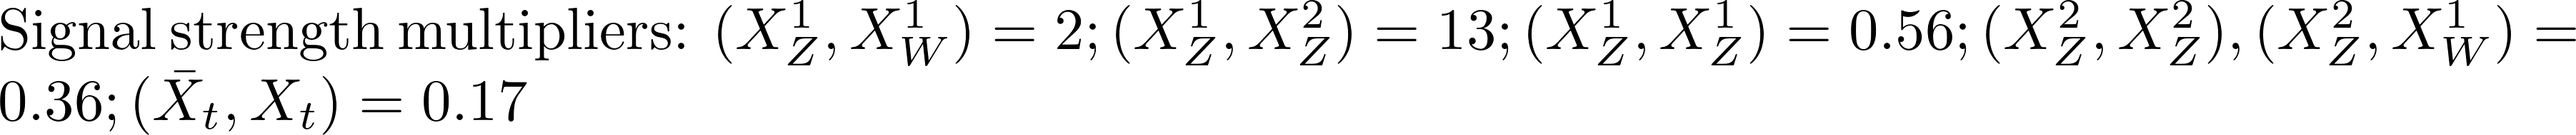
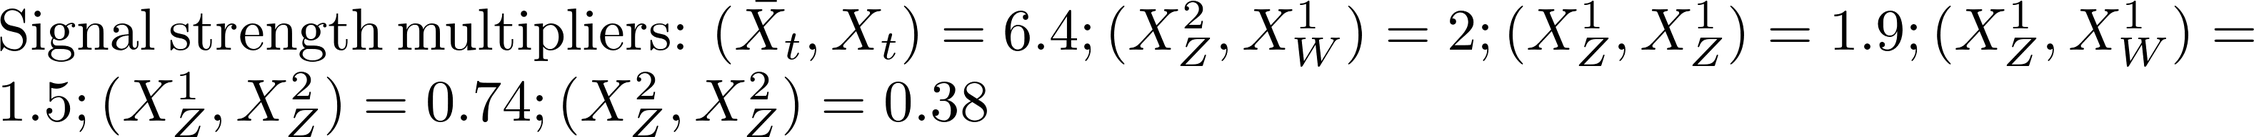
automated update by plotHiscore.py to rundir4_310:     K=13.214 TL=18.71 walkerid=uphi

diff --git a/protomodels/rundir4_310/rawnumbers.html b/protomodels/rundir4_310/rawnumbers.html
@@ -2,77 +2,8 @@
 <tr><th>Analysis Name</th><th>Type</th><th>Dataset</th><th>Topos</th><th>Observed</th><th>Expected</th><th>Approx &sigma;</th><th>Particles</th>
 </tr>
 <tr><td><a href=https://atlas.web.cern.ch/Atlas/GROUPS/PHYSICS/PAPERS/EXOT-2018-06/>ATLAS-EXOT-2018-06</a></td><td>em</td> <td>EM10</td><td>TChiISR, TChiZISRqq</td><td>413</td><td>359.00 +/- 10.00</td><td style="text-align:right">2.5 &sigma;</td><td style="text-align:right">X<sup>1</sup><sub>W</sub>, X<sup>1</sup><sub>Z</sub></td></tr>
-<tr><td><a href=http://cms-results.web.cern.ch/cms-results/public-results/publications/EXO-20-004/>CMS-EXO-20-004</a></td><td>comb</td> <td>-</td><td>TChiISR, TChiZISRqq</td><td> 1e+02 fb </td><td> 1e+02 fb</td><td style="text-align:right">2.5 &sigma;</td><td style="text-align:right">X<sup>1</sup><sub>W</sub>, X<sup>1</sup><sub>Z</sub></td></tr>
-<tr><td><a href=https://atlas.web.cern.ch/Atlas/GROUPS/PHYSICS/PAPERS/SUSY-2018-12/>ATLAS-SUSY-2018-12</a></td><td>em</td> <td>SRBTT</td><td>T2tt</td><td>67</td><td>46.00 +/- 7.00</td><td style="text-align:right">2.1 &sigma;</td><td style="text-align:right">X<sup>1</sup><sub>Z</sub>, X<sub>t</sub></td></tr>
-<tr><td><a href=http://cms-results.web.cern.ch/cms-results/public-results/publications/SUS-20-004/>CMS-SUS-20-004</a></td><td>comb</td> <td>-</td><td>TChiHH</td><td> 0.3 fb </td><td> 0.2 fb</td><td style="text-align:right">1.9 &sigma;</td><td style="text-align:right">X<sup>1</sup><sub>Z</sub>, X<sup>2</sup><sub>Z</sub></td></tr>
-<tr><td><a href=https://atlas.web.cern.ch/Atlas/GROUPS/PHYSICS/PAPERS/SUSY-2016-16/>ATLAS-SUSY-2016-16</a></td><td>em</td> <td>tN_med</td><td>T2tt</td><td>50</td><td>36.30 +/- 6.60</td><td style="text-align:right">1.5 &sigma;</td><td style="text-align:right">X<sup>1</sup><sub>Z</sub>, X<sub>t</sub></td></tr>
-<tr><td><a href=https://atlas.web.cern.ch/Atlas/GROUPS/PHYSICS/PAPERS/SUSY-2018-08/>ATLAS-SUSY-2018-08</a></td><td>em</td> <td>SRSF140</td><td>T2tt</td><td>9</td><td>5.10 +/- 0.90</td><td style="text-align:right">1.5 &sigma;</td><td style="text-align:right">X<sup>1</sup><sub>Z</sub>, X<sub>t</sub></td></tr>
-<tr><td><a href=https://atlas.web.cern.ch/Atlas/GROUPS/PHYSICS/PAPERS/SUSY-2013-16/>ATLAS-SUSY-2013-16</a></td><td>em</td> <td>SRA4</td><td>T2tt</td><td>4</td><td>2.40 +/- 0.70</td><td style="text-align:right">0.9 &sigma;</td><td style="text-align:right">X<sup>1</sup><sub>Z</sub>, X<sub>t</sub></td></tr>
-<tr><td><a href=https://atlas.web.cern.ch/Atlas/GROUPS/PHYSICS/PAPERS/SUSY-2013-15/>ATLAS-SUSY-2013-15</a></td><td>em</td> <td>tNboost</td><td>T2tt</td><td>5</td><td>3.30 +/- 0.70</td><td style="text-align:right">0.9 &sigma;</td><td style="text-align:right">X<sup>1</sup><sub>Z</sub>, X<sub>t</sub></td></tr>
-<tr><td><a href=https://twiki.cern.ch/twiki/bin/view/CMSPublic/PhysicsResultsSUS13015>CMS-PAS-SUS-13-015</a></td><td>em</td> <td>pTmiss350_Nb2</td><td>T2tt</td><td>15</td><td>8.60 +/- 7.10</td><td style="text-align:right">0.8 &sigma;</td><td style="text-align:right">X<sup>1</sup><sub>Z</sub>, X<sub>t</sub></td></tr>
-<tr><td><a href=http://cms-results.web.cern.ch/cms-results/public-results/publications/SUS-16-050/index.html>CMS-SUS-16-050-agg</a></td><td>comb</td> <td>-</td><td>T2tt</td><td> 1 fb </td><td> 2 fb</td><td style="text-align:right">-0.3 &sigma;</td><td style="text-align:right">X<sup>1</sup><sub>Z</sub>, X<sub>t</sub></td></tr>
-<tr><td><a href=https://twiki.cern.ch/twiki/bin/view/CMSPublic/PhysicsResultsSUS13011>CMS-SUS-13-011</a></td><td>em</td> <td>LM150</td><td>T2tt</td><td>227</td><td>251.00 +/- 50.00</td><td style="text-align:right">-0.4 &sigma;</td><td style="text-align:right">X<sup>1</sup><sub>Z</sub>, X<sub>t</sub></td></tr>
+<tr><td><a href=http://cms-results.web.cern.ch/cms-results/public-results/publications/EXO-20-004/>CMS-EXO-20-004</a></td><td>comb</td> <td>-</td><td>TChiISR, TChiZISRqq</td><td> 9e+01 fb </td><td> 7e+01 fb</td><td style="text-align:right">2.5 &sigma;</td><td style="text-align:right">X<sup>1</sup><sub>W</sub>, X<sup>1</sup><sub>Z</sub></td></tr>
+<tr><td><a href=http://cms-results.web.cern.ch/cms-results/public-results/publications/SUS-20-004/>CMS-SUS-20-004</a></td><td>comb</td> <td>-</td><td>TChiHH</td><td> 0.3 fb </td><td> 0.2 fb</td><td style="text-align:right">2.1 &sigma;</td><td style="text-align:right">X<sup>1</sup><sub>Z</sub>, X<sup>2</sup><sub>Z</sub></td></tr>
 </table>
 <table style='color:grey'>
-<tr><th>Not in Best Combo</th><th>Type</th><th>Dataset</th><th>Topos</th><th>Observed</th><th>Expected</th><th>Approx &sigma;</th><th>Particles</th><tr><td><a href=https://atlas.web.cern.ch/Atlas/GROUPS/PHYSICS/PAPERS/SUSY-2015-02/>ATLAS-SUSY-2015-02</a></td><td>em</td> <td>SR1</td><td>T2tt</td><td>12</td><td>5.50 +/- 0.72</td><td style="text-align:right">2.3 &sigma;</td><td style="text-align:right">X<sup>1</sup><sub>Z</sub>, X<sub>t</sub></td></tr>
-<tr><td><a href=https://twiki.cern.ch/twiki/bin/view/CMSPublic/PhysicsResultsSUS13012>CMS-SUS-13-012</a></td><td>em</td> <td>6NJet8_500HT800 ...</td><td>T2tt, T6bbWWoff</td><td>9</td><td>0.80 +/- 3.30</td><td style="text-align:right">1.8 &sigma;</td><td style="text-align:right">X<sup>1</sup><sub>W</sub>, X<sup>1</sup><sub>Z</sub>, X<sub>t</sub></td></tr>
-<tr><td><a href=https://twiki.cern.ch/twiki/bin/view/CMSPublic/PhysicsResultsSUS13012>CMS-SUS-13-012</a></td><td>em</td> <td>3NJet6_1000HT12 ...</td><td>T2tt, T6bbWWoff</td><td>32</td><td>22.80 +/- 5.20</td><td style="text-align:right">1.3 &sigma;</td><td style="text-align:right">X<sup>1</sup><sub>W</sub>, X<sup>1</sup><sub>Z</sub>, X<sub>t</sub></td></tr>
-<tr><td><a href=https://atlas.web.cern.ch/Atlas/GROUPS/PHYSICS/PAPERS/SUSY-2013-04/>ATLAS-SUSY-2013-04</a></td><td>em</td> <td>GtGrid_SR_10ij5 ...</td><td>T2tt</td><td>3</td><td>1.37 +/- 0.35</td><td style="text-align:right">1.2 &sigma;</td><td style="text-align:right">X<sup>1</sup><sub>Z</sub>, X<sub>t</sub></td></tr>
-<tr><td><a href=https://twiki.cern.ch/twiki/bin/view/CMSPublic/PhysicsResultsSUS13012>CMS-SUS-13-012</a></td><td>em</td> <td>3NJet6_1500HTin ...</td><td>T2tt, T6bbWWoff</td><td>39</td><td>29.70 +/- 5.80</td><td style="text-align:right">1.1 &sigma;</td><td style="text-align:right">X<sup>1</sup><sub>W</sub>, X<sup>1</sup><sub>Z</sub>, X<sub>t</sub></td></tr>
-<tr><td><a href=https://twiki.cern.ch/twiki/bin/view/CMSPublic/PhysicsResultsSUS13012>CMS-SUS-13-012</a></td><td>em</td> <td>8NJetinf_500HT8 ...</td><td>T2tt, T6bbWWoff</td><td>8</td><td>4.80 +/- 2.30</td><td style="text-align:right">1.0 &sigma;</td><td style="text-align:right">X<sup>1</sup><sub>W</sub>, X<sup>1</sup><sub>Z</sub>, X<sub>t</sub></td></tr>
-<tr><td><a href=https://twiki.cern.ch/twiki/bin/view/CMSPublic/PhysicsResultsSUS13012>CMS-SUS-13-012</a></td><td>em</td> <td>3NJet6_1250HT15 ...</td><td>T2tt, T6bbWWoff</td><td>23</td><td>17.60 +/- 4.10</td><td style="text-align:right">0.9 &sigma;</td><td style="text-align:right">X<sup>1</sup><sub>W</sub>, X<sup>1</sup><sub>Z</sub>, X<sub>t</sub></td></tr>
-<tr><td><a href=https://atlas.web.cern.ch/Atlas/GROUPS/PHYSICS/PAPERS/SUSY-2013-04/>ATLAS-SUSY-2013-04</a></td><td>em</td> <td>GtGrid_SR_8ij80 ...</td><td>T2tt</td><td>2</td><td>0.90 +/- 0.60</td><td style="text-align:right">0.9 &sigma;</td><td style="text-align:right">X<sup>1</sup><sub>Z</sub>, X<sub>t</sub></td></tr>
-<tr><td><a href=https://atlas.web.cern.ch/Atlas/GROUPS/PHYSICS/PAPERS/SUSY-2013-04/>ATLAS-SUSY-2013-04</a></td><td>em</td> <td>GtGrid_SR_9ej50 ...</td><td>T2tt</td><td>5</td><td>3.30 +/- 0.70</td><td style="text-align:right">0.9 &sigma;</td><td style="text-align:right">X<sup>1</sup><sub>Z</sub>, X<sub>t</sub></td></tr>
-<tr><td><a href=https://twiki.cern.ch/twiki/bin/view/CMSPublic/PhysicsResultsSUS13012>CMS-SUS-13-012</a></td><td>em</td> <td>3NJet6_800HT100 ...</td><td>T2tt, T6bbWWoff</td><td>124</td><td>108.00 +/- 15.00</td><td style="text-align:right">0.9 &sigma;</td><td style="text-align:right">X<sup>1</sup><sub>W</sub>, X<sup>1</sup><sub>Z</sub>, X<sub>t</sub></td></tr>
-<tr><td><a href=https://twiki.cern.ch/twiki/bin/view/CMSPublic/PhysicsResultsSUS13012>CMS-SUS-13-012</a></td><td>em</td> <td>8NJetinf_1000HT ...</td><td>T2tt, T6bbWWoff</td><td>8</td><td>5.60 +/- 2.30</td><td style="text-align:right">0.8 &sigma;</td><td style="text-align:right">X<sup>1</sup><sub>W</sub>, X<sup>1</sup><sub>Z</sub>, X<sub>t</sub></td></tr>
-<tr><td><a href=https://twiki.cern.ch/twiki/bin/view/CMSPublic/PhysicsResultsSUS13012>CMS-SUS-13-012</a></td><td>em</td> <td>6NJet8_800HT100 ...</td><td>T2tt, T6bbWWoff</td><td>35</td><td>28.60 +/- 6.90</td><td style="text-align:right">0.8 &sigma;</td><td style="text-align:right">X<sup>1</sup><sub>W</sub>, X<sup>1</sup><sub>Z</sub>, X<sub>t</sub></td></tr>
-<tr><td><a href=https://atlas.web.cern.ch/Atlas/GROUPS/PHYSICS/PAPERS/SUSY-2013-04/>ATLAS-SUSY-2013-04</a></td><td>em</td> <td>GtGrid_SR_8ej50 ...</td><td>T2tt</td><td>40</td><td>35.00 +/- 4.00</td><td style="text-align:right">0.7 &sigma;</td><td style="text-align:right">X<sup>1</sup><sub>Z</sub>, X<sub>t</sub></td></tr>
-<tr><td><a href=https://twiki.cern.ch/twiki/bin/view/CMSPublic/PhysicsResultsSUS13012>CMS-SUS-13-012</a></td><td>em</td> <td>6NJet8_500HT800 ...</td><td>T2tt, T6bbWWoff</td><td>62</td><td>52.00 +/- 12.00</td><td style="text-align:right">0.7 &sigma;</td><td style="text-align:right">X<sup>1</sup><sub>W</sub>, X<sup>1</sup><sub>Z</sub>, X<sub>t</sub></td></tr>
-<tr><td><a href=https://atlas.web.cern.ch/Atlas/GROUPS/PHYSICS/PAPERS/SUSY-2013-04/>ATLAS-SUSY-2013-04</a></td><td>em</td> <td>GtGrid_SR_9ej50 ...</td><td>T2tt</td><td>8</td><td>6.10 +/- 1.70</td><td style="text-align:right">0.7 &sigma;</td><td style="text-align:right">X<sup>1</sup><sub>Z</sub>, X<sub>t</sub></td></tr>
-<tr><td><a href=https://twiki.cern.ch/twiki/bin/view/CMSPublic/PhysicsResultsSUS13012>CMS-SUS-13-012</a></td><td>em</td> <td>3NJet6_1000HT12 ...</td><td>T2tt, T6bbWWoff</td><td>335</td><td>305.00 +/- 41.00</td><td style="text-align:right">0.7 &sigma;</td><td style="text-align:right">X<sup>1</sup><sub>W</sub>, X<sup>1</sup><sub>Z</sub>, X<sub>t</sub></td></tr>
-<tr><td><a href=http://cms-results.web.cern.ch/cms-results/public-results/publications/SUS-16-033/index.html>CMS-SUS-16-033</a></td><td>em</td> <td>SR6_Njet2_Nb2_H ...</td><td>T2tt</td><td>216</td><td>196.00 +/- 28.00</td><td style="text-align:right">0.6 &sigma;</td><td style="text-align:right">X<sup>1</sup><sub>Z</sub>, X<sub>t</sub></td></tr>
-<tr><td><a href=http://cms-results.web.cern.ch/cms-results/public-results/publications/SUS-16-033/index.html>CMS-SUS-16-033</a></td><td>em</td> <td>SR1_Njet2_Nb0_H ...</td><td>T2tt</td><td>7838</td><td>7584.00 +/- 433.00</td><td style="text-align:right">0.6 &sigma;</td><td style="text-align:right">X<sup>1</sup><sub>Z</sub>, X<sub>t</sub></td></tr>
-<tr><td><a href=http://cms-results.web.cern.ch/cms-results/public-results/publications/SUS-16-033/index.html>CMS-SUS-16-033</a></td><td>em</td> <td>SR12_Njet5_Nb1_ ...</td><td>T2tt</td><td>48</td><td>42.20 +/- 9.70</td><td style="text-align:right">0.5 &sigma;</td><td style="text-align:right">X<sup>1</sup><sub>Z</sub>, X<sub>t</sub></td></tr>
-<tr><td><a href=https://twiki.cern.ch/twiki/bin/view/CMSPublic/PhysicsResultsSUS13012>CMS-SUS-13-012</a></td><td>em</td> <td>3NJet6_500HT800 ...</td><td>T2tt, T6bbWWoff</td><td>454</td><td>418.00 +/- 66.00</td><td style="text-align:right">0.5 &sigma;</td><td style="text-align:right">X<sup>1</sup><sub>W</sub>, X<sup>1</sup><sub>Z</sub>, X<sub>t</sub></td></tr>
-<tr><td><a href=http://cms-results.web.cern.ch/cms-results/public-results/publications/SUS-16-033/index.html>CMS-SUS-16-033</a></td><td>em</td> <td>SR7_Njet3_Nb1_H ...</td><td>T2tt</td><td>123</td><td>113.00 +/- 18.00</td><td style="text-align:right">0.5 &sigma;</td><td style="text-align:right">X<sup>1</sup><sub>Z</sub>, X<sub>t</sub></td></tr>
-<tr><td><a href=https://twiki.cern.ch/twiki/bin/view/CMSPublic/PhysicsResultsSUS13012>CMS-SUS-13-012</a></td><td>em</td> <td>3NJet6_1500HTin ...</td><td>T2tt, T6bbWWoff</td><td>94</td><td>86.00 +/- 17.00</td><td style="text-align:right">0.4 &sigma;</td><td style="text-align:right">X<sup>1</sup><sub>W</sub>, X<sup>1</sup><sub>Z</sub>, X<sub>t</sub></td></tr>
-<tr><td><a href=http://cms-results.web.cern.ch/cms-results/public-results/publications/SUS-16-033/index.html>CMS-SUS-16-033</a></td><td>em</td> <td>SR9_NJet5_Nb2_H ...</td><td>T2tt</td><td>6</td><td>4.40 +/- 3.40</td><td style="text-align:right">0.4 &sigma;</td><td style="text-align:right">X<sup>1</sup><sub>Z</sub>, X<sub>t</sub></td></tr>
-<tr><td><a href=https://atlas.web.cern.ch/Atlas/GROUPS/PHYSICS/PAPERS/SUSY-2013-04/>ATLAS-SUSY-2013-04</a></td><td>em</td> <td>GtGrid_SR_8ej50 ...</td><td>T2tt</td><td>44</td><td>40.00 +/- 10.00</td><td style="text-align:right">0.4 &sigma;</td><td style="text-align:right">X<sup>1</sup><sub>Z</sub>, X<sub>t</sub></td></tr>
-<tr><td><a href=https://twiki.cern.ch/twiki/bin/view/CMSPublic/PhysicsResultsSUS13012>CMS-SUS-13-012</a></td><td>em</td> <td>3NJet6_500HT800 ...</td><td>T2tt, T6bbWWoff</td><td>62</td><td>57.40 +/- 11.20</td><td style="text-align:right">0.4 &sigma;</td><td style="text-align:right">X<sup>1</sup><sub>W</sub>, X<sup>1</sup><sub>Z</sub>, X<sub>t</sub></td></tr>
-<tr><td><a href=https://atlas.web.cern.ch/Atlas/GROUPS/PHYSICS/PAPERS/SUSY-2013-04/>ATLAS-SUSY-2013-04</a></td><td>em</td> <td>GtGrid_SR_7ej80 ...</td><td>T2tt</td><td>12</td><td>11.00 +/- 2.20</td><td style="text-align:right">0.3 &sigma;</td><td style="text-align:right">X<sup>1</sup><sub>Z</sub>, X<sub>t</sub></td></tr>
-<tr><td><a href=https://twiki.cern.ch/twiki/bin/view/CMSPublic/PhysicsResultsSUS13012>CMS-SUS-13-012</a></td><td>em</td> <td>3NJet6_800HT100 ...</td><td>T2tt, T6bbWWoff</td><td>808</td><td>777.00 +/- 107.00</td><td style="text-align:right">0.3 &sigma;</td><td style="text-align:right">X<sup>1</sup><sub>W</sub>, X<sup>1</sup><sub>Z</sub>, X<sub>t</sub></td></tr>
-<tr><td><a href=https://twiki.cern.ch/twiki/bin/view/CMSPublic/PhysicsResultsSUS13012>CMS-SUS-13-012</a></td><td>em</td> <td>3NJet6_1000HT12 ...</td><td>T2tt, T6bbWWoff</td><td>34</td><td>32.30 +/- 6.10</td><td style="text-align:right">0.2 &sigma;</td><td style="text-align:right">X<sup>1</sup><sub>W</sub>, X<sup>1</sup><sub>Z</sub>, X<sub>t</sub></td></tr>
-<tr><td><a href=https://twiki.cern.ch/twiki/bin/view/CMSPublic/PhysicsResultsSUS13012>CMS-SUS-13-012</a></td><td>em</td> <td>8NJetinf_800HT1 ...</td><td>T2tt, T6bbWWoff</td><td>9</td><td>8.30 +/- 3.40</td><td style="text-align:right">0.2 &sigma;</td><td style="text-align:right">X<sup>1</sup><sub>W</sub>, X<sup>1</sup><sub>Z</sub>, X<sub>t</sub></td></tr>
-<tr><td><a href=http://cms-results.web.cern.ch/cms-results/public-results/publications/SUS-16-033/index.html>CMS-SUS-16-033</a></td><td>em</td> <td>SR3_Njet5_Nb0_H ...</td><td>T2tt</td><td>819</td><td>806.00 +/- 57.00</td><td style="text-align:right">0.2 &sigma;</td><td style="text-align:right">X<sup>1</sup><sub>Z</sub>, X<sub>t</sub></td></tr>
-<tr><td><a href=https://twiki.cern.ch/twiki/bin/view/CMSPublic/PhysicsResultsSUS13012>CMS-SUS-13-012</a></td><td>em</td> <td>6NJet8_1000HT12 ...</td><td>T2tt, T6bbWWoff</td><td>4</td><td>2.20 +/- 3.80</td><td style="text-align:right">0.2 &sigma;</td><td style="text-align:right">X<sup>1</sup><sub>W</sub>, X<sup>1</sup><sub>Z</sub>, X<sub>t</sub></td></tr>
-<tr><td><a href=https://twiki.cern.ch/twiki/bin/view/CMSPublic/PhysicsResultsSUS13012>CMS-SUS-13-012</a></td><td>em</td> <td>6NJet8_1250HT15 ...</td><td>T2tt, T6bbWWoff</td><td>2</td><td>0.50 +/- 2.60</td><td style="text-align:right">0.1 &sigma;</td><td style="text-align:right">X<sup>1</sup><sub>W</sub>, X<sup>1</sup><sub>Z</sub>, X<sub>t</sub></td></tr>
-<tr><td><a href=https://twiki.cern.ch/twiki/bin/view/CMSPublic/PhysicsResultsSUS13012>CMS-SUS-13-012</a></td><td>em</td> <td>3NJet6_500HT800 ...</td><td>T2tt, T6bbWWoff</td><td>6159</td><td>6088.00 +/- 665.00</td><td style="text-align:right">0.1 &sigma;</td><td style="text-align:right">X<sup>1</sup><sub>W</sub>, X<sup>1</sup><sub>Z</sub>, X<sub>t</sub></td></tr>
-<tr><td><a href=https://atlas.web.cern.ch/Atlas/GROUPS/PHYSICS/PAPERS/SUSY-2015-02/>ATLAS-SUSY-2015-02</a></td><td>em</td> <td>SR3</td><td>T2tt</td><td>1</td><td>1.03 +/- 0.18</td><td style="text-align:right">0.1 &sigma;</td><td style="text-align:right">X<sup>1</sup><sub>Z</sub>, X<sub>t</sub></td></tr>
-<tr><td><a href=https://twiki.cern.ch/twiki/bin/view/CMSPublic/PhysicsResultsSUS13012>CMS-SUS-13-012</a></td><td>em</td> <td>3NJet6_500HT800 ...</td><td>T2tt, T6bbWWoff</td><td>2305</td><td>2278.00 +/- 266.00</td><td style="text-align:right">0.1 &sigma;</td><td style="text-align:right">X<sup>1</sup><sub>W</sub>, X<sup>1</sup><sub>Z</sub>, X<sub>t</sub></td></tr>
-<tr><td><a href=https://atlas.web.cern.ch/Atlas/GROUPS/PHYSICS/PAPERS/SUSY-2013-04/>ATLAS-SUSY-2013-04</a></td><td>em</td> <td>GtGrid_SR_7ej80 ...</td><td>T2tt</td><td>17</td><td>17.00 +/- 6.00</td><td style="text-align:right">0.1 &sigma;</td><td style="text-align:right">X<sup>1</sup><sub>Z</sub>, X<sub>t</sub></td></tr>
-<tr><td><a href=https://atlas.web.cern.ch/Atlas/GROUPS/PHYSICS/PAPERS/SUSY-2013-04/>ATLAS-SUSY-2013-04</a></td><td>em</td> <td>GtGrid_SR_8ij80 ...</td><td>T2tt</td><td>3</td><td>3.30 +/- 2.20</td><td style="text-align:right">-0.1 &sigma;</td><td style="text-align:right">X<sup>1</sup><sub>Z</sub>, X<sub>t</sub></td></tr>
-<tr><td><a href=https://atlas.web.cern.ch/Atlas/GROUPS/PHYSICS/PAPERS/SUSY-2015-02/>ATLAS-SUSY-2015-02</a></td><td>em</td> <td>SR2</td><td>T2tt</td><td>1</td><td>1.25 +/- 0.26</td><td style="text-align:right">-0.1 &sigma;</td><td style="text-align:right">X<sup>1</sup><sub>Z</sub>, X<sub>t</sub></td></tr>
-<tr><td><a href=https://twiki.cern.ch/twiki/bin/view/CMSPublic/PhysicsResultsSUS13012>CMS-SUS-13-012</a></td><td>em</td> <td>6NJet8_1000HT12 ...</td><td>T2tt, T6bbWWoff</td><td>67</td><td>70.00 +/- 16.00</td><td style="text-align:right">-0.1 &sigma;</td><td style="text-align:right">X<sup>1</sup><sub>W</sub>, X<sup>1</sup><sub>Z</sub>, X<sub>t</sub></td></tr>
-<tr><td><a href=https://twiki.cern.ch/twiki/bin/view/CMSPublic/PhysicsResultsSUS13012>CMS-SUS-13-012</a></td><td>em</td> <td>6NJet8_1000HT12 ...</td><td>T2tt, T6bbWWoff</td><td>20</td><td>21.60 +/- 5.80</td><td style="text-align:right">-0.2 &sigma;</td><td style="text-align:right">X<sup>1</sup><sub>W</sub>, X<sup>1</sup><sub>Z</sub>, X<sub>t</sub></td></tr>
-<tr><td><a href=https://atlas.web.cern.ch/Atlas/GROUPS/PHYSICS/PAPERS/SUSY-2013-04/>ATLAS-SUSY-2013-04</a></td><td>em</td> <td>GtGrid_SR_9ej50 ...</td><td>T2tt</td><td>7</td><td>8.00 +/- 2.70</td><td style="text-align:right">-0.2 &sigma;</td><td style="text-align:right">X<sup>1</sup><sub>Z</sub>, X<sub>t</sub></td></tr>
-<tr><td><a href=https://twiki.cern.ch/twiki/bin/view/CMSPublic/PhysicsResultsSUS13012>CMS-SUS-13-012</a></td><td>em</td> <td>3NJet6_800HT100 ...</td><td>T2tt, T6bbWWoff</td><td>52</td><td>54.80 +/- 9.70</td><td style="text-align:right">-0.2 &sigma;</td><td style="text-align:right">X<sup>1</sup><sub>W</sub>, X<sup>1</sup><sub>Z</sub>, X<sub>t</sub></td></tr>
-<tr><td><a href=https://atlas.web.cern.ch/Atlas/GROUPS/PHYSICS/PAPERS/SUSY-2013-04/>ATLAS-SUSY-2013-04</a></td><td>em</td> <td>GtGrid_SR_8ij80 ...</td><td>T2tt</td><td>1</td><td>1.50 +/- 0.90</td><td style="text-align:right">-0.2 &sigma;</td><td style="text-align:right">X<sup>1</sup><sub>Z</sub>, X<sub>t</sub></td></tr>
-<tr><td><a href=http://cms-results.web.cern.ch/cms-results/public-results/publications/SUS-16-033/index.html>CMS-SUS-16-033</a></td><td>em</td> <td>SR8_Njet5_Nb3_H ...</td><td>T2tt</td><td>17</td><td>19.50 +/- 8.40</td><td style="text-align:right">-0.2 &sigma;</td><td style="text-align:right">X<sup>1</sup><sub>Z</sub>, X<sub>t</sub></td></tr>
-<tr><td><a href=https://twiki.cern.ch/twiki/bin/view/CMSPublic/PhysicsResultsSUS13012>CMS-SUS-13-012</a></td><td>em</td> <td>6NJet8_1500HTin ...</td><td>T2tt, T6bbWWoff</td><td>18</td><td>21.10 +/- 8.10</td><td style="text-align:right">-0.3 &sigma;</td><td style="text-align:right">X<sup>1</sup><sub>W</sub>, X<sup>1</sup><sub>Z</sub>, X<sub>t</sub></td></tr>
-<tr><td><a href=https://twiki.cern.ch/twiki/bin/view/CMSPublic/PhysicsResultsSUS13012>CMS-SUS-13-012</a></td><td>em</td> <td>3NJet6_1000HT12 ...</td><td>T2tt, T6bbWWoff</td><td>129</td><td>137.00 +/- 20.00</td><td style="text-align:right">-0.3 &sigma;</td><td style="text-align:right">X<sup>1</sup><sub>W</sub>, X<sup>1</sup><sub>Z</sub>, X<sub>t</sub></td></tr>
-<tr><td><a href=https://twiki.cern.ch/twiki/bin/view/CMSPublic/PhysicsResultsSUS13012>CMS-SUS-13-012</a></td><td>em</td> <td>6NJet8_500HT800 ...</td><td>T2tt, T6bbWWoff</td><td>266</td><td>290.00 +/- 65.00</td><td style="text-align:right">-0.3 &sigma;</td><td style="text-align:right">X<sup>1</sup><sub>W</sub>, X<sup>1</sup><sub>Z</sub>, X<sub>t</sub></td></tr>
-<tr><td><a href=https://twiki.cern.ch/twiki/bin/view/CMSPublic/PhysicsResultsSUS13012>CMS-SUS-13-012</a></td><td>em</td> <td>6NJet8_1250HT15 ...</td><td>T2tt, T6bbWWoff</td><td>24</td><td>28.00 +/- 8.20</td><td style="text-align:right">-0.4 &sigma;</td><td style="text-align:right">X<sup>1</sup><sub>W</sub>, X<sup>1</sup><sub>Z</sub>, X<sub>t</sub></td></tr>
-<tr><td><a href=https://twiki.cern.ch/twiki/bin/view/CMSPublic/PhysicsResultsSUS13012>CMS-SUS-13-012</a></td><td>em</td> <td>3NJet6_1250HT15 ...</td><td>T2tt, T6bbWWoff</td><td>38</td><td>42.80 +/- 9.50</td><td style="text-align:right">-0.4 &sigma;</td><td style="text-align:right">X<sup>1</sup><sub>W</sub>, X<sup>1</sup><sub>Z</sub>, X<sub>t</sub></td></tr>
-<tr><td><a href=https://twiki.cern.ch/twiki/bin/view/CMSPublic/PhysicsResultsSUS13012>CMS-SUS-13-012</a></td><td>em</td> <td>6NJet8_800HT100 ...</td><td>T2tt, T6bbWWoff</td><td>111</td><td>124.00 +/- 29.00</td><td style="text-align:right">-0.4 &sigma;</td><td style="text-align:right">X<sup>1</sup><sub>W</sub>, X<sup>1</sup><sub>Z</sub>, X<sub>t</sub></td></tr>
-<tr><td><a href=https://twiki.cern.ch/twiki/bin/view/CMSPublic/PhysicsResultsSUS13012>CMS-SUS-13-012</a></td><td>em</td> <td>8NJetinf_1250HT ...</td><td>T2tt, T6bbWWoff</td><td>5</td><td>7.10 +/- 3.80</td><td style="text-align:right">-0.4 &sigma;</td><td style="text-align:right">X<sup>1</sup><sub>W</sub>, X<sup>1</sup><sub>Z</sub>, X<sub>t</sub></td></tr>
-<tr><td><a href=https://atlas.web.cern.ch/Atlas/GROUPS/PHYSICS/PAPERS/SUSY-2013-04/>ATLAS-SUSY-2013-04</a></td><td>em</td> <td>GtGrid_SR_8ej50 ...</td><td>T2tt</td><td>44</td><td>50.00 +/- 10.00</td><td style="text-align:right">-0.5 &sigma;</td><td style="text-align:right">X<sup>1</sup><sub>Z</sub>, X<sub>t</sub></td></tr>
-<tr><td><a href=https://twiki.cern.ch/twiki/bin/view/CMSPublic/PhysicsResultsSUS13012>CMS-SUS-13-012</a></td><td>em</td> <td>6NJet8_800HT100 ...</td><td>T2tt, T6bbWWoff</td><td>4</td><td>6.00 +/- 2.80</td><td style="text-align:right">-0.5 &sigma;</td><td style="text-align:right">X<sup>1</sup><sub>W</sub>, X<sup>1</sup><sub>Z</sub>, X<sub>t</sub></td></tr>
-<tr><td><a href=https://twiki.cern.ch/twiki/bin/view/CMSPublic/PhysicsResultsSUS13012>CMS-SUS-13-012</a></td><td>em</td> <td>3NJet6_1250HT15 ...</td><td>T2tt, T6bbWWoff</td><td>98</td><td>109.00 +/- 18.00</td><td style="text-align:right">-0.5 &sigma;</td><td style="text-align:right">X<sup>1</sup><sub>W</sub>, X<sup>1</sup><sub>Z</sub>, X<sub>t</sub></td></tr>
-<tr><td><a href=https://twiki.cern.ch/twiki/bin/view/CMSPublic/PhysicsResultsSUS13012>CMS-SUS-13-012</a></td><td>em</td> <td>3NJet6_800HT100 ...</td><td>T2tt, T6bbWWoff</td><td>305</td><td>330.00 +/- 40.00</td><td style="text-align:right">-0.6 &sigma;</td><td style="text-align:right">X<sup>1</sup><sub>W</sub>, X<sup>1</sup><sub>Z</sub>, X<sub>t</sub></td></tr>
-<tr><td><a href=https://twiki.cern.ch/twiki/bin/view/CMSPublic/PhysicsResultsSUS13012>CMS-SUS-13-012</a></td><td>em</td> <td>8NJetinf_1500HT ...</td><td>T2tt, T6bbWWoff</td><td>2</td><td>3.30 +/- 4.70</td><td style="text-align:right">-0.7 &sigma;</td><td style="text-align:right">X<sup>1</sup><sub>W</sub>, X<sup>1</sup><sub>Z</sub>, X<sub>t</sub></td></tr>
-<tr><td><a href=http://cms-results.web.cern.ch/cms-results/public-results/publications/SUS-16-033/index.html>CMS-SUS-16-033</a></td><td>em</td> <td>SR11_Njet7_Nb1_ ...</td><td>T2tt</td><td>890</td><td>969.00 +/- 80.00</td><td style="text-align:right">-0.9 &sigma;</td><td style="text-align:right">X<sup>1</sup><sub>Z</sub>, X<sub>t</sub></td></tr>
-<tr><td><a href=https://twiki.cern.ch/twiki/bin/view/CMSPublic/PhysicsResultsSUS13012>CMS-SUS-13-012</a></td><td>em</td> <td>6NJet8_1250HT15 ...</td><td>T2tt, T6bbWWoff</td><td>5</td><td>9.40 +/- 3.60</td><td style="text-align:right">-0.9 &sigma;</td><td style="text-align:right">X<sup>1</sup><sub>W</sub>, X<sup>1</sup><sub>Z</sub>, X<sub>t</sub></td></tr>
-<tr><td><a href=https://atlas.web.cern.ch/Atlas/GROUPS/PHYSICS/PAPERS/SUSY-2013-04/>ATLAS-SUSY-2013-04</a></td><td>em</td> <td>GtGrid_SR_7ej80 ...</td><td>T2tt</td><td>13</td><td>25.00 +/- 10.00</td><td style="text-align:right">-1.1 &sigma;</td><td style="text-align:right">X<sup>1</sup><sub>Z</sub>, X<sub>t</sub></td></tr>
-<tr><td><a href=https://twiki.cern.ch/twiki/bin/view/CMSPublic/PhysicsResultsSUS13012>CMS-SUS-13-012</a></td><td>em</td> <td>6NJet8_1500HTin ...</td><td>T2tt, T6bbWWoff</td><td>3</td><td>7.90 +/- 3.60</td><td style="text-align:right">-1.1 &sigma;</td><td style="text-align:right">X<sup>1</sup><sub>W</sub>, X<sup>1</sup><sub>Z</sub>, X<sub>t</sub></td></tr>
-<tr><td><a href=http://cms-results.web.cern.ch/cms-results/public-results/publications/SUS-19-006/index.html>CMS-SUS-19-006-agg</a></td><td>comb</td> <td>-</td><td>T2tt</td><td> 2 fb </td><td> 2 fb</td><td style="text-align:right">-1.3 &sigma;</td><td style="text-align:right">X<sup>1</sup><sub>Z</sub>, X<sub>t</sub></td></tr>
-</table>
+<tr><th>Not in Best Combo</th><th>Type</th><th>Dataset</th><th>Topos</th><th>Observed</th><th>Expected</th><th>Approx &sigma;</th><th>Particles</th></table>

diff --git a/protomodels/rundir4_310/index.html b/protomodels/rundir4_310/index.html
@@ -1,23 +1,23 @@
 <html>
 <body>
 <center>
-<table><td><h1>Current best protomodel: <i>K</i>=18.09, <i>TL</i>=23.37</h1><td><img height=60px src=https://smodels.github.io//protomodels/logos/protomodel_lego.png></table>
+<table><td><h1>Current best protomodel: <i>K</i>=13.21, <i>TL</i>=18.71</h1><td><img height=60px src=https://smodels.github.io//protomodels/logos/protomodel_lego.png></table>
 </center>
-<b><a href=./hiscore.slha>ProtoModel</a> <a href=./pmodel.dict>(dict)</a> produced with <a href=https://smodels.github.io//docs/Validation310>database v3.1.0</a>, combination strategy <a href=./matrix.png>aggressive</a> in walker uphi step 883.</b> <br>
+<b><a href=./hiscore.slha>ProtoModel</a> <a href=./pmodel.dict>(dict)</a> produced with <a href=https://smodels.github.io//docs/Validation310>database v3.1.0</a>, combination strategy <a href=./matrix.png>aggressive</a> in walker uphi step 2815.</b> <br>
 <table width=80%>
 <tr><td>
-<br><b>Critics:</b> failed UL-based critic (2/5)<br>
-<br><b>No LLHD Critic results!!</b><br><br><b>31 predictions available. Highest r values are:</b><br><ul>
-<li><a href=https://atlas.web.cern.ch/Atlas/GROUPS/PHYSICS/PAPERS/EXOT-2018-06/>ATLAS-EXOT-2018-06</a>:EM5:TChiZISRqq,TChiISR r=1.50, r<sub>exp</sub>=1.55<br>
-<li><a href=http://cms-results.web.cern.ch/cms-results/public-results/publications/SUS-20-002/index.html>CMS-SUS-20-002</a>:ul:T2tt r=1.42, r<sub>exp</sub>=1.30<br>
-<li><a href=http://cms-results.web.cern.ch/cms-results/public-results/publications/SUS-19-010/index.html>CMS-SUS-19-010</a>:ul:T2tt r=1.02, r<sub>exp</sub>=0.97<br>
-<li><a href=http://cms-results.web.cern.ch/cms-results/public-results/publications/SUS-19-009/index.html>CMS-SUS-19-009</a>:ul:T2tt r=0.89, r<sub>exp</sub>=0.90<br>
+<br><b>Critics:</b> passed both critics<br>
+<br><b>LLHD Critic:</b> ATLAS-EXOT-2018-06:EM8, CMS-EXO-20-004:combined, CMS-SUS-20-004:combined:: <span style='color: darkgreen;'>robs=0.99, rexp=2.5</span><br>
+<br><b>3 predictions available. Highest r values are:</b><br><ul>
+<li><a href=https://atlas.web.cern.ch/Atlas/GROUPS/PHYSICS/PAPERS/EXOT-2018-06/>ATLAS-EXOT-2018-06</a>:EM8:TChiZISRqq,TChiISR r=1.35, r<sub>exp</sub>=1.47<br>
+<li><a href=http://cms-results.web.cern.ch/cms-results/public-results/publications/SUS-20-004/>CMS-SUS-20-004</a>:ul:TChiHH r=0.57, r<sub>exp</sub>=1.12<br>
+<li><a href=http://cms-results.web.cern.ch/cms-results/public-results/publications/EXO-20-004/>CMS-EXO-20-004</a>:SR_2018_16:TChiZISRqq,TChiISR r=0.26, r<sub>exp</sub>=0.42<br>
 </ul>
-<td><img width=600px src=./texdoc.png?1762085130>
-<br><span style='font-size: smaller; color: darkred;'>Last updated: Sun Nov  2 13:05:30 2025</span>
+<td><img width=600px src=./texdoc.png?1762158020>
+<br><span style='font-size: smaller; color: darkred;'>Last updated: Mon Nov  3 09:20:20 2025</span>
 </table><table style="width:80%">
-<td width=45%><img height=580px src=./ruler.png?1762085130><td width=55%><img height=220px src=./decays.png?1762085130>
-<font size=-3><iframe type="text/html" height="350px" width="100%" frameborder="0" src="./rawnumbers.html?1762085130"></iframe></font>
+<td width=45%><img height=580px src=./ruler.png?1762158020><td width=55%><img height=220px src=./decays.png?1762158020>
+<font size=-3><iframe type="text/html" height="350px" width="100%" frameborder="0" src="./rawnumbers.html?1762158020"></iframe></font>
 </table>
 </body>
 </html>
